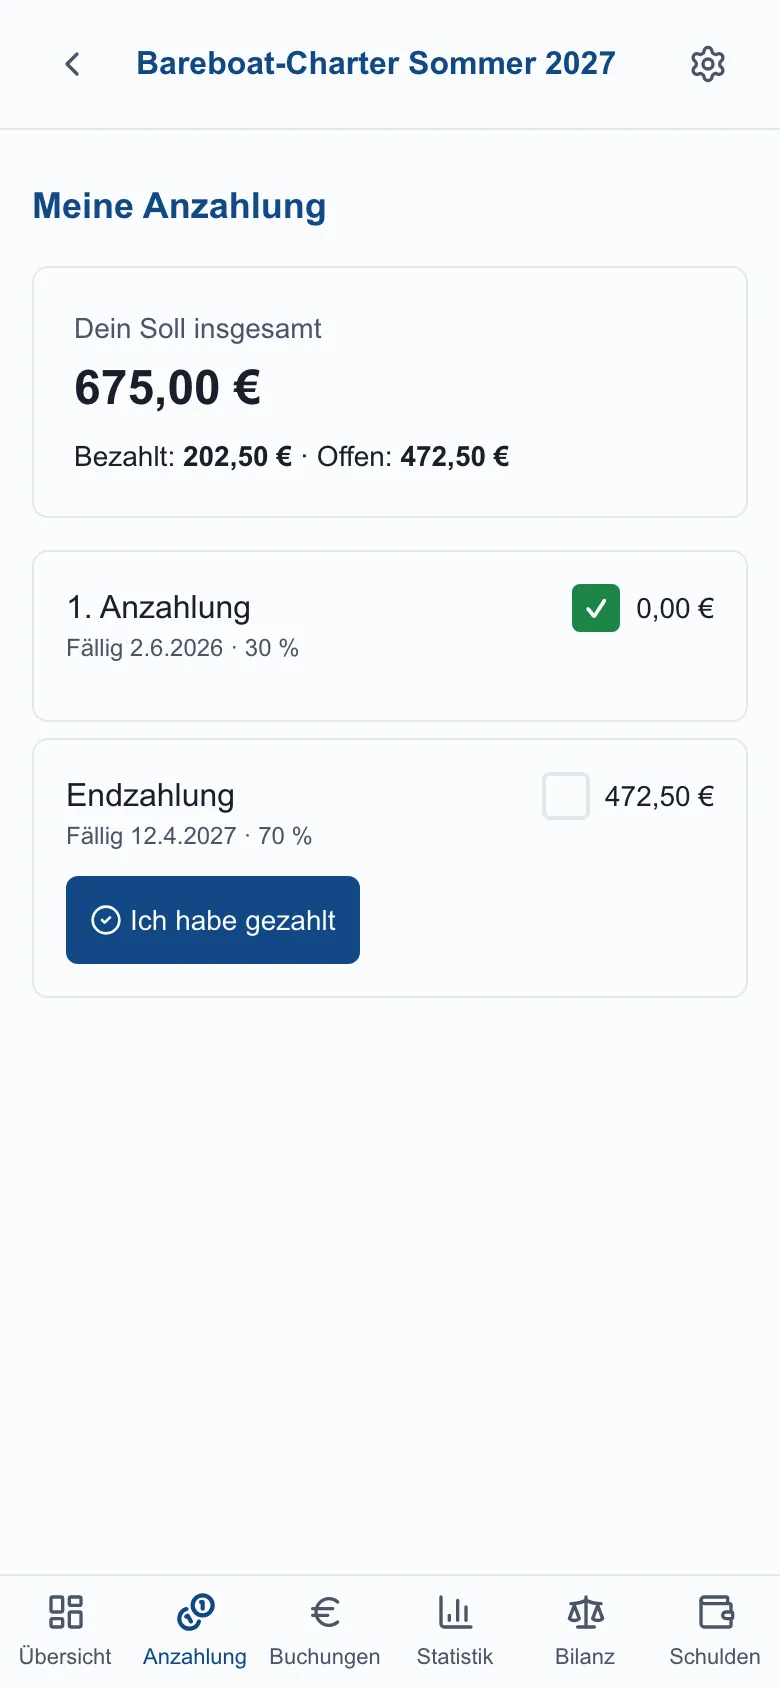
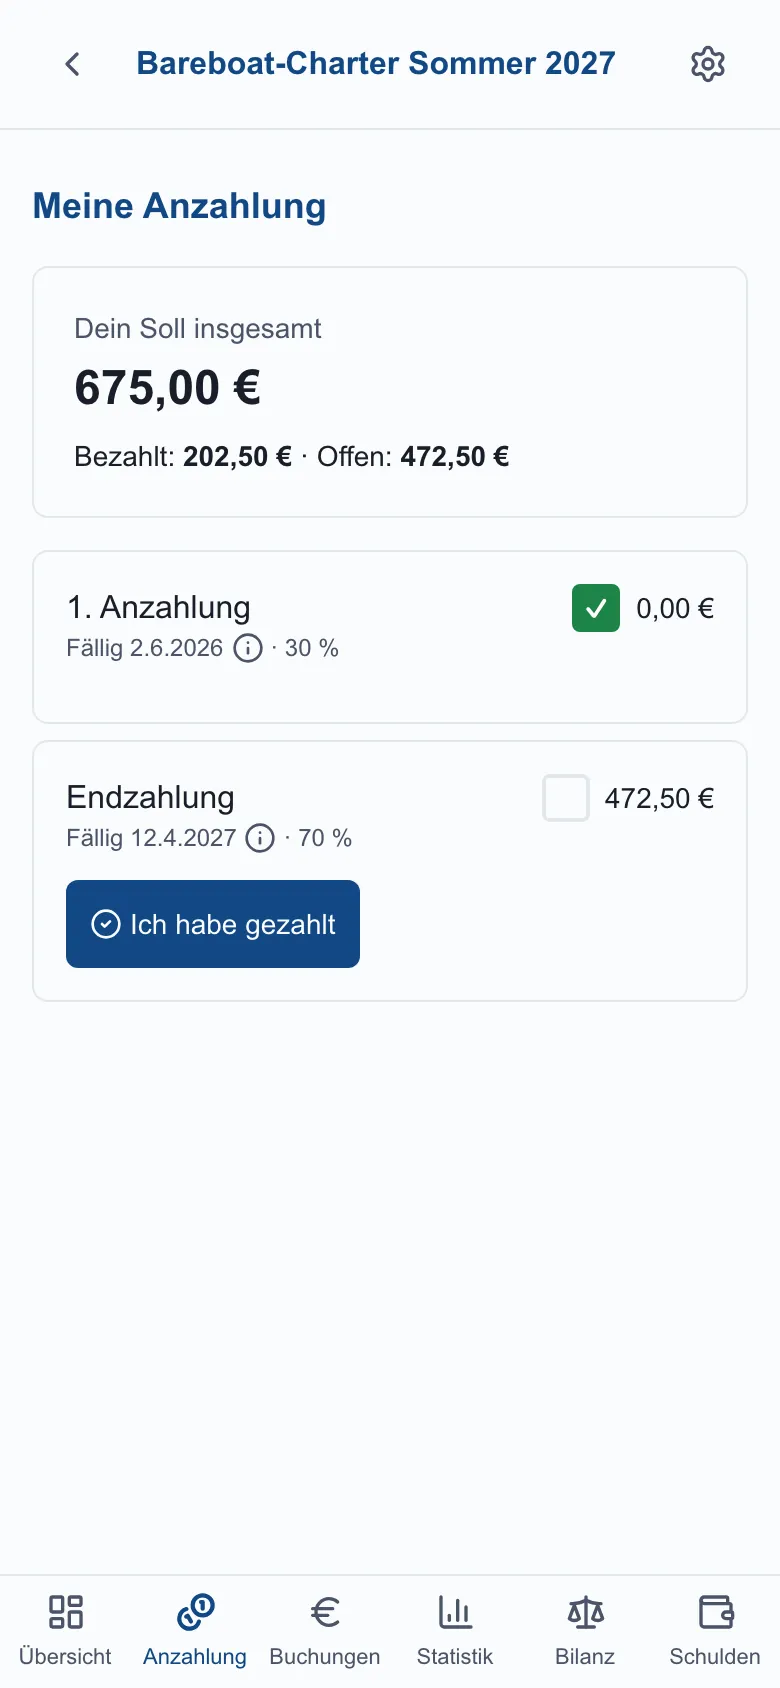
UX: Info-i-Erklärungen ergänzen + drei Hilfetexte verständlicher (#156)
Drei bestehende Hilfetexte laienverständlicher umformuliert + vier neue Info-i an bisher unerklärten Stellen (Gutschrift „An Alle", Crew-Self-View-Fälligkeit, „Trinkt Alkohol mit?", Törn-Fortschritt). /about-Screenshots 12/17/18 neu; take-screenshots.ts mit SHOTS-Allowlist + BASE_URL.

Merge mit main: Hilfetexte mit dem vocab-System (Reise-Typ „Andere Reise") kombiniert; FieldGroup/TrancheField nutzen jetzt die nach transaction-form-parts ausgelagerten Versionen (Tranche-Hint → vocab.prepayment, FieldGroup-Label → ReactNode); An-Alle-Tooltip nutzt vocab.crew.

Changed region(s): [[0.0923, 0.4621, 0.4615, 0.5853], [0.7692, 0.4621, 0.9231, 0.4929], [0.3077, 0.3697, 0.4308, 0.4005]]

diff --git a/webapp/scripts/take-screenshots.ts b/webapp/scripts/take-screenshots.ts
@@ -40,6 +40,10 @@
  *        npx tsx scripts/take-screenshots.ts; RC=$?
  *        kill $SRV
  *
+ * SELEKTIVER RE-RUN: `SHOTS=12-gutschrift,18-toern-fortschritt npx tsx
+ *   scripts/take-screenshots.ts` nimmt NUR die gelisteten Shots neu auf
+ *   (Navigation läuft komplett, übrige WebP bleiben unangetastet).
+ *
  * Hinweise:
  *   - Login läuft über Mailpit (lokaler Magic-Link); seed-demo.sh legt
  *     Anna (skipper@) + Clara (clara@) via Admin-API an und verknüpft
@@ -52,7 +56,7 @@ import { mkdir } from "node:fs/promises";
 import { resolve } from "node:path";
 import sharp from "sharp";
 
-const BASE_URL = "http://localhost:3000";
+const BASE_URL = process.env.BASE_URL ?? "http://localhost:3000";
 const MAILPIT_URL = "http://127.0.0.1:54324";
 const SKIPPER_EMAIL = "skipper@example.com";   // Anna (Skipper + Admin)
 const CREW_EMAIL = "clara@example.com";        // Clara (reguläres Crew-Member)
@@ -97,7 +101,20 @@ async function clearMailpit() {
   await fetch(`${MAILPIT_URL}/api/v1/messages`, { method: "DELETE" });
 }
 
+// Optionaler Allowlist-Filter: `SHOTS=12-gutschrift,17-…` nimmt NUR die
+// genannten Shots neu auf (selektiver Re-Run). Die übrige Navigation läuft
+// trotzdem komplett (Logins + Trip-Lookup sind Voraussetzung), aber die
+// nicht-gelisteten WebP bleiben unangetastet. Leer = alle Shots.
+const SHOT_ALLOWLIST = (process.env.SHOTS ?? "")
+  .split(",")
+  .map((s) => s.trim())
+  .filter(Boolean);
+
 async function shot(page: Page, name: string) {
+  if (SHOT_ALLOWLIST.length > 0 && !SHOT_ALLOWLIST.includes(name)) {
+    console.log(`  ⤫ ${name}.webp (übersprungen)`);
+    return;
+  }
   // Playwright kann nur PNG/JPEG; wir nehmen den PNG-Buffer und schreiben
   // ihn als WebP raus (~65 % kleiner, von der /about-Seite referenziert).
   const buf = await page.screenshot({ fullPage: false });

diff --git a/webapp/components/trip-progress.tsx b/webapp/components/trip-progress.tsx
@@ -5,6 +5,7 @@ import Link from "next/link";
 import { CheckCircle2, ChevronDown, Circle, Clock, Compass, Loader2 } from "lucide-react";
 import type { ItemStatus, ProgressItem, TripProgress as TripProgressData } from "@/lib/calc/trip-progress";
 import { setChecklistCollapsed, setDepositSettled } from "@/lib/actions/trip-checklist";
+import { InfoTooltip } from "@/components/info-tooltip";
 import { useTripVocab } from "@/components/trip-vocab-provider";
 import { cn } from "@/lib/utils";
 
@@ -70,7 +71,13 @@ export function TripProgress({
       <div className="flex items-center gap-3">
         <Compass className="h-5 w-5 shrink-0 text-primary" aria-hidden="true" />
         <div className="min-w-0 flex-1">
-          <h2 className="font-semibold text-ink">{vocab.trip === "Reise" ? "Deine Reise" : "Dein Törn"} im Überblick</h2>
+          <h2 className="font-semibold text-ink">
+            {vocab.trip === "Reise" ? "Deine Reise" : "Dein Törn"} im Überblick
+            <InfoTooltip
+              label="Wie funktioniert diese Übersicht?"
+              text="Die Haken setzen sich automatisch, sobald ein Schritt in der App erledigt ist — nichts wird manuell abgehakt. Offene Schritte führen dich per Klick zur passenden Seite."
+            />
+          </h2>
           <p className="text-xs text-ink-soft">
             {progress.doneCount} von {progress.totalCount} erledigt
           </p>

diff --git a/webapp/app/trips/[id]/prepayments/crew-self-view.tsx b/webapp/app/trips/[id]/prepayments/crew-self-view.tsx
@@ -4,6 +4,7 @@ import { useState, useTransition } from "react";
 import { useRouter } from "next/navigation";
 import { CheckCircle2, RefreshCw } from "lucide-react";
 import { Modal } from "@/components/modal";
+import { InfoTooltip } from "@/components/info-tooltip";
 import { useTripVocab } from "@/components/trip-vocab-provider";
 import { formatEuro, todayIso } from "@/lib/utils";
 import { submitSelfPayment } from "@/lib/actions/prepayments";
@@ -100,7 +101,12 @@ export function CrewSelfView({ tripId, plan, tranches, obligation, payments, pen
                 <div className="min-w-0 flex-1">
                   <p className="font-medium">{t.label}</p>
                   <p className="text-xs text-ink-soft">
-                    Fällig {formatDeDate(crewDue)} &middot; {t.percent.toFixed(0)} %
+                    Fällig {formatDeDate(crewDue)}
+                    <InfoTooltip
+                      label="Warum dieses Datum?"
+                      text="3 Tage vor der echten Charterfrist — so kommt deine Zahlung rechtzeitig bei der vorstreckenden Person an, die das Geld an die Charteragentur weiterleitet."
+                    />{" "}
+                    &middot; {t.percent.toFixed(0)} %
                   </p>
                 </div>
                 {actionable ? (

diff --git a/webapp/app/trips/[id]/debts/page.tsx b/webapp/app/trips/[id]/debts/page.tsx
@@ -66,7 +66,7 @@ export default async function DebtsPage({
           Schulden
           <InfoTooltip
             label="Wie funktionieren die Bezahlt-Häkchen?"
-            text={`Das Bezahlt-Häkchen wird in der ganzen ${vocab.crew} geteilt, alle sehen denselben Stand live. Sobald sich der Betrag durch eine neue Buchung ändert, ist die Schuld eine neue und das Häkchen verschwindet automatisch.`}
+            text={`Das Bezahlt-Häkchen wird in der ganzen ${vocab.crew} geteilt, alle sehen denselben Stand live. Kommt eine neue Buchung dazu, ändert sich der Betrag — das alte Häkchen wird dann automatisch zurückgesetzt, weil die Schuld neu berechnet wird.`}
           />
         </h1>
         <p className="mt-1 text-xs text-ink-soft">

diff --git a/webapp/app/trips/[id]/transactions/new/transaction-form.tsx b/webapp/app/trips/[id]/transactions/new/transaction-form.tsx
@@ -677,7 +677,18 @@ function CreditForm({
         />
       </FieldGroup>
 
-      <FieldGroup label="Empfängt (An)" error={fieldError("credit_to")}>
+      <FieldGroup
+        label={
+          <>
+            Empfängt (An)
+            <InfoTooltip
+              label="Was bedeutet „An Alle“?"
+              text={`„Alle“ verteilt den Betrag gleichmäßig auf die gesamte ${vocab.crew} außer die zahlende Person. Sonst geht die Gutschrift nur an die eine gewählte Person.`}
+            />
+          </>
+        }
+        error={fieldError("credit_to")}
+      >
         <PersonSelect
           name="credit_to"
           options={members.map((m) => ({ id: m.person_id, name: m.display_name }))}

diff --git a/webapp/app/trips/[id]/prepayments/matrix.tsx b/webapp/app/trips/[id]/prepayments/matrix.tsx
@@ -189,7 +189,7 @@ export function PrepaymentMatrix({ tripId, tripName, tripType = "sailing", plan,
           Vorgestreckt von <strong className="text-ink">{advancerName}</strong>
           <InfoTooltip
             label="Wer streckt vor?"
-            text="Alle Anzahlungen werden an diese Person verbucht. Eigener Anteil per Klick auf die Zelle als Selbstverrechnung abhaken (bilanzneutral, kein Mail-/WhatsApp-Versand)."
+            text="Alle Anzahlungen werden an diese Person verbucht. Den eigenen Anteil per Klick auf die Zelle als eigene Zahlung abhaken (ändert die Bilanz nicht, kein Mail-/WhatsApp-Versand)."
           />
         </p>
       )}

diff --git a/webapp/app/trips/[id]/transactions/new/transaction-form-parts.tsx b/webapp/app/trips/[id]/transactions/new/transaction-form-parts.tsx
@@ -151,7 +151,7 @@ export function FieldGroup({
   error,
   children,
 }: {
-  label: string;
+  label: ReactNode;
   htmlFor?: string;
   hint?: string;
   /** Feld-spezifische Fehlermeldung — wird direkt unter dem Feld gezeigt. */
@@ -209,7 +209,7 @@ export function TrancheField({
         </select>
       </label>
       <p className="mt-2 text-xs text-ink-soft">
-        Wenn gesetzt, landet die Buchung im Anzahlungspool statt in der laufenden {vocab.kitty}.
+        Wenn gesetzt, zählt die Buchung zur {vocab.prepayment} statt zur laufenden {vocab.kitty}.
       </p>
     </details>
   );

diff --git a/webapp/app/trips/[id]/settings/crew-section.tsx b/webapp/app/trips/[id]/settings/crew-section.tsx
@@ -299,6 +299,10 @@ export function CrewSection({
           <div>
             <label htmlFor="is_alcoholic" className="block text-sm font-medium">
               Trinkt Alkohol mit?
+              <InfoTooltip
+                label="Was bewirkt das?"
+                text="Legt fest, ob diese Person den Alkoholanteil einer Ausgabe mitträgt. „Default aus Person“ übernimmt die Voreinstellung aus dem Profil der Person."
+              />
             </label>
             <select id="is_alcoholic" name="is_alcoholic"
               defaultValue=""
